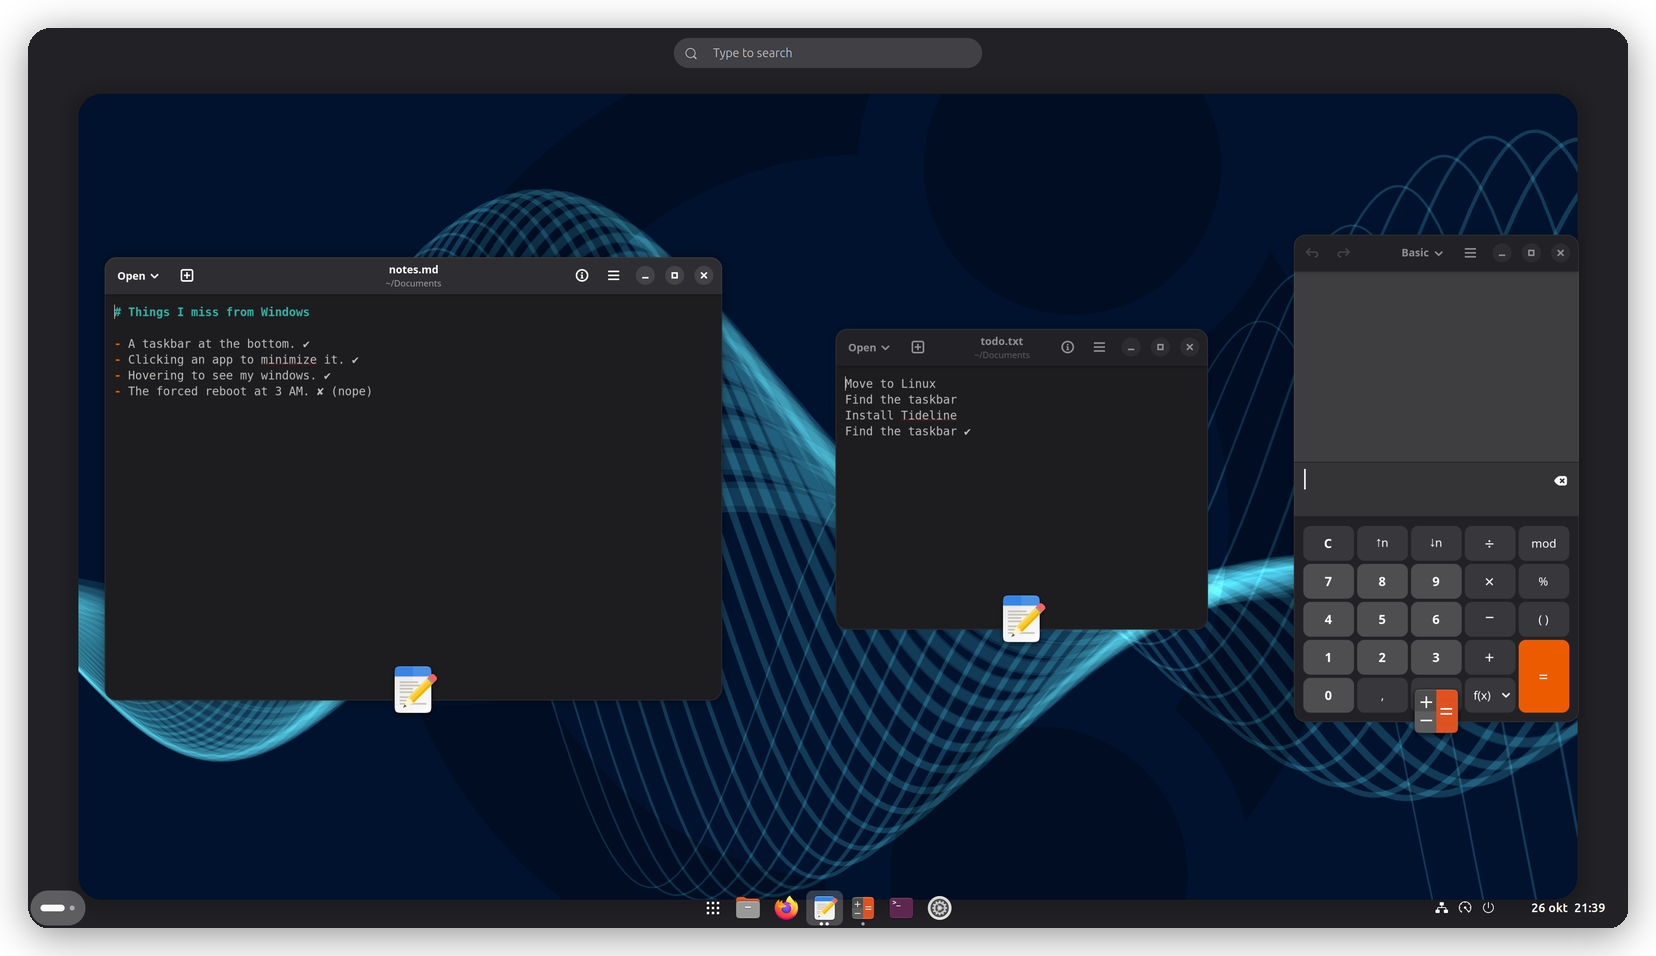
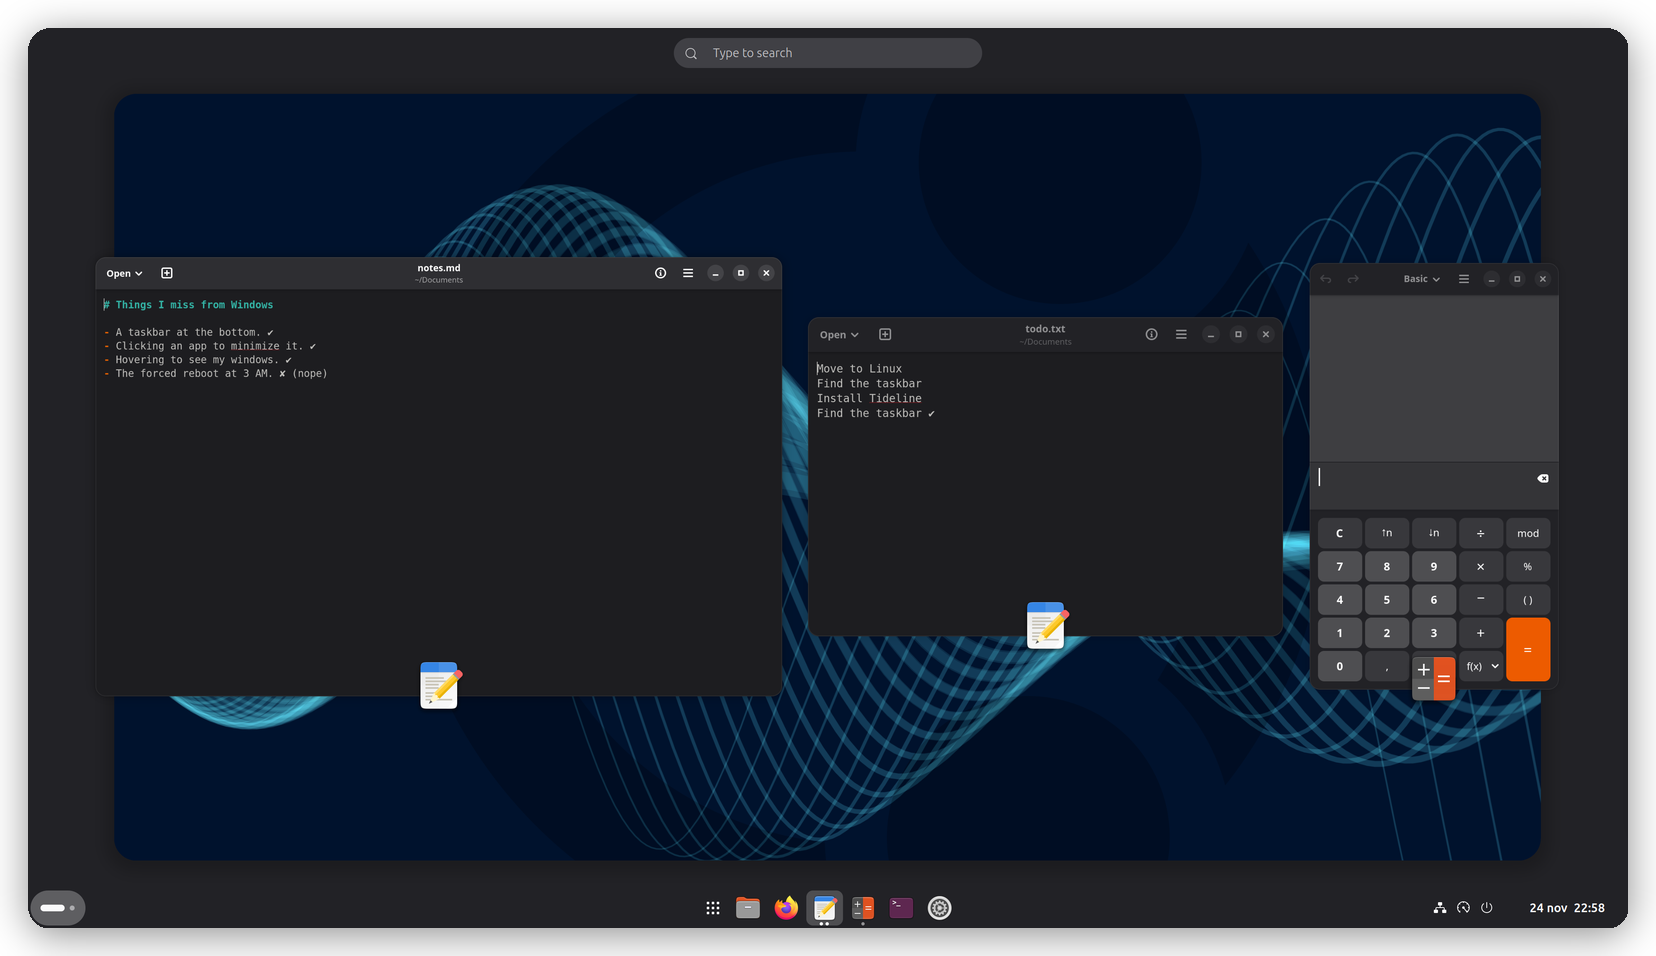
Add a Tideline Settings menu and keep the Overview clear of the bar
Right-clicking empty taskbar space or the app grid button opens a small
menu with Tideline Settings. The panel's window-drag gesture is limited
to the left button while enabled so it no longer swallows the right-click.

The Overview is padded at the bottom by the taskbar height so the
workspace, app grid and search no longer run in under the bar. The
dynamic background also forgets bars the shell destroys on its own.

Changed region(s): [[0.0308, 0.091, 0.9547, 0.9707], [0.9239, 0.546, 0.9547, 0.5764]]

diff --git a/tideline@croby.se/settingsMenu.js b/tideline@croby.se/settingsMenu.js
@@ -1,0 +1,120 @@
+import Clutter from 'gi://Clutter';
+import GLib from 'gi://GLib';
+import St from 'gi://St';
+
+import * as Main from 'resource:///org/gnome/shell/ui/main.js';
+import * as PopupMenu from 'resource:///org/gnome/shell/ui/popupMenu.js';
+import {gettext as _} from 'resource:///org/gnome/shell/extensions/extension.js';
+
+/**
+ * The small "Tideline Settings" menu that opens on a right-click on empty
+ * taskbar space or on the app grid button, like "Taskbar settings" does on
+ * Windows. One menu is open at a time, built fresh each time it opens.
+ */
+class SettingsMenu {
+    constructor() {
+        this._openPreferences = null;
+        this._menu = null;
+        this._manager = null;
+        this._destroyId = 0;
+    }
+
+    /**
+     * @param {Function} openPreferences - opens the preferences window
+     */
+    init(openPreferences) {
+        this._openPreferences = openPreferences;
+    }
+
+    /**
+     * Open the menu above an actor, e.g. the app grid button.
+     *
+     * @param {Clutter.Actor} sourceActor - what the menu points at
+     */
+    openFor(sourceActor) {
+        this._open(sourceActor, 0.5);
+    }
+
+    /**
+     * Open the menu above a point, e.g. where empty space was clicked.
+     *
+     * @param {number} x - stage x
+     * @param {number} y - stage y
+     */
+    openAt(x, y) {
+        Main.layoutManager.setDummyCursorGeometry(x, y, 0, 0);
+        this._open(Main.layoutManager.dummyCursor, 0);
+    }
+
+    /**
+     * Make right-clicks on the actor's own empty space open the menu.
+     * Clicks on children such as app buttons or panel menus are left alone,
+     * since the gesture only sees events that target the actor itself.
+     *
+     * @param {Clutter.Actor} actor - a bar
+     */
+    addTo(actor) {
+        const gesture = new Clutter.ClickGesture({
+            required_button: Clutter.BUTTON_SECONDARY,
+            recognize_on_press: true,
+        });
+        gesture.connect('recognize', () => {
+            const {x, y} = gesture.get_coords_abs();
+            this.openAt(x, y);
+        });
+        actor.add_action_full('tideline-settings-menu',
+            Clutter.EventPhase.TARGET, gesture);
+    }
+
+    removeFrom(actor) {
+        actor.remove_action_by_name('tideline-settings-menu');
+    }
+
+    _open(sourceActor, alignment) {
+        this.close();
+
+        this._menu = new PopupMenu.PopupMenu(sourceActor, alignment, St.Side.BOTTOM);
+        this._menu.addAction(_('Tideline Settings'), () => this._openPreferences?.(),
+            'emblem-system-symbolic');
+        Main.uiGroup.add_child(this._menu.actor);
+        this._menu.actor.hide();
+
+        this._manager = new PopupMenu.PopupMenuManager(sourceActor);
+        this._manager.addMenu(this._menu);
+
+        const menu = this._menu;
+        menu.connect('open-state-changed', (_menu, open) => {
+            if (open || menu !== this._menu)
+                return;
+            // Let the closing animation finish before tearing it down.
+            this._destroyId = GLib.timeout_add(GLib.PRIORITY_DEFAULT, 300, () => {
+                this._destroyId = 0;
+                if (menu === this._menu)
+                    this.close();
+                return GLib.SOURCE_REMOVE;
+            });
+        });
+        this._menu.open(true);
+    }
+
+    close() {
+        if (this._destroyId) {
+            GLib.source_remove(this._destroyId);
+            this._destroyId = 0;
+        }
+        const menu = this._menu;
+        this._menu = null;
+        if (menu) {
+            this._manager.removeMenu(menu);
+            menu.destroy();
+        }
+        this._manager = null;
+    }
+
+    destroy() {
+        this.close();
+        this._openPreferences = null;
+    }
+}
+
+export const settingsMenu = new SettingsMenu();

diff --git a/tideline@croby.se/extension.js b/tideline@croby.se/extension.js
@@ -1,3 +1,4 @@
+import Clutter from 'gi://Clutter';
 import Meta from 'gi://Meta';
 import St from 'gi://St';
 
@@ -8,6 +9,7 @@ import {ExtensionState} from 'resource:///org/gnome/shell/misc/extensionUtils.js
 import {DynamicBackground} from './background.js';
 import {previews} from './previews.js';
 import {SecondaryBar} from './secondaryBar.js';
+import {settingsMenu} from './settingsMenu.js';
 import {Taskbar} from './taskbar.js';
 
 const CONFLICTING_EXTENSIONS = [
@@ -70,6 +72,19 @@ export default class TidelineExtension extends Extension {
             });
 
         this._setupOverviewDash();
+        this._setupOverviewSpace();
+
+        // Right-click on empty taskbar space opens a menu with our settings.
+        settingsMenu.init(() => this.openPreferences());
+        for (const actor of this._settingsMenuTargets())
+            settingsMenu.addTo(actor);
+        // The panel's window-drag gesture reacts to any button and would
+        // swallow the right-click; dragging windows only needs the left one.
+        const windowDrag = panel._clickGesture;
+        if (windowDrag) {
+            this._windowDragButton = windowDrag.required_button;
+            windowDrag.required_button = Clutter.BUTTON_PRIMARY;
+        }
 
         // Zones skip empty boxes, so recheck now that Activities and the
         // clock are where the settings want them.
@@ -96,6 +111,12 @@ export default class TidelineExtension extends Extension {
             this._setMenuSide(indicator, St.Side.TOP);
 
         previews.close();
+        for (const actor of this._settingsMenuTargets())
+            settingsMenu.removeFrom(actor);
+        settingsMenu.destroy();
+        if (this._windowDragButton !== undefined && panel._clickGesture)
+            panel._clickGesture.required_button = this._windowDragButton;
+        delete this._windowDragButton;
         this._destroySecondaryBars();
         this._taskbar?.destroy();
         this._taskbar = null;
@@ -103,6 +124,7 @@ export default class TidelineExtension extends Extension {
         this._restoreClock();
         panel.statusArea.activities?.container.show();
         this._restoreOverviewDash();
+        this._restoreOverviewSpace();
 
         this._background?.destroy();
         this._background = null;
@@ -112,6 +134,13 @@ export default class TidelineExtension extends Extension {
         // Put the panel and its pointer barrier back where the shell wants them.
         layoutManager._updateBoxes();
         layoutManager._updatePanelBarrier();
+    }
+
+    _settingsMenuTargets() {
+        // The boxes are reactive too, so clicks between their children
+        // target them rather than the panel.
+        const panel = Main.panel;
+        return [panel, panel._leftBox, panel._centerBox, panel._rightBox];
     }
 
     _setupSecondaryBars() {
@@ -241,6 +270,23 @@ export default class TidelineExtension extends Extension {
         dash.opacity = 255;
         dash.reactive = true;
         dash.set_clip_to_allocation(false);
+    }
+
+    _setupOverviewSpace() {
+        // The overview lays itself out from the top of the work area down to
+        // the bottom of the screen, so it would run in under the taskbar.
+        // Padding its controls lifts the search, windows and app grid clear.
+        const controls = Main.overview._overview?._controls;
+        if (!controls)
+            return;
+
+        this._overviewControls = controls;
+        controls.set_style(`padding-bottom: ${this._settings.get_int('panel-height')}px;`);
+    }
+
+    _restoreOverviewSpace() {
+        this._overviewControls?.set_style(null);
+        this._overviewControls = null;
     }
 
     _setMenuSide(indicator, side) {

diff --git a/tideline@croby.se/taskbar.js b/tideline@croby.se/taskbar.js
@@ -15,6 +15,7 @@ import {gettext as _} from 'resource:///org/gnome/shell/extensions/extension.js'
 
 import {parseColor} from './background.js';
 import {previews} from './previews.js';
+import {settingsMenu} from './settingsMenu.js';
 
 const LABEL_SHOW_DELAY = 300;
 const LABEL_ANIMATION_TIME = 150;
@@ -400,7 +401,23 @@ class ShowAppsButton extends St.Button {
         this.set_child(this._icon);
         this._label = new HoverLabel(this, _('Show Apps'));
         this.setIconSize(iconSize);
+
+        // Like the Start button on Windows, a right-click offers settings.
+        const rightClick = new Clutter.ClickGesture({
+            required_button: Clutter.BUTTON_SECONDARY,
+            recognize_on_press: true,
+        });
+        rightClick.connect('recognize', () => this.popupMenu());
+        this.add_action(rightClick);
+        this.connect('popup-menu', () => this.popupMenu());
+
         this.connect('destroy', () => this._label.destroy());
+    }
+
+    popupMenu() {
+        this._label.hide();
+        settingsMenu.openFor(this);
+        return Clutter.EVENT_STOP;
     }
 
     setIconSize(size) {

diff --git a/tideline@croby.se/background.js b/tideline@croby.se/background.js
@@ -113,6 +113,8 @@ export class DynamicBackground {
         });
 
         this._targets.set(actor, {getMonitor, zones});
+        // The shell may destroy a bar itself, e.g. while shutting down.
+        actor.connectObject('destroy', () => this._targets.delete(actor), this);
         this.update();
     }
 
@@ -120,6 +122,7 @@ export class DynamicBackground {
         const target = this._targets.get(actor);
         if (target)
             this._clearZones(target.zones);
+        actor.disconnectObject(this);
         this._targets.delete(actor);
     }
 
@@ -314,6 +317,7 @@ export class DynamicBackground {
         Main.overview.disconnectObject(this);
 
         for (const [actor, {zones}] of this._targets) {
+            actor.disconnectObject(this);
             actor.set_style(null);
             this._clearZones(zones);
         }

diff --git a/tideline@croby.se/secondaryBar.js b/tideline@croby.se/secondaryBar.js
@@ -4,6 +4,7 @@ import St from 'gi://St';
 
 import * as Main from 'resource:///org/gnome/shell/ui/main.js';
 
+import {settingsMenu} from './settingsMenu.js';
 import {Taskbar} from './taskbar.js';
 
 /**
@@ -27,6 +28,7 @@ class SecondaryBar extends St.Widget {
         this._taskbar.x_align = Clutter.ActorAlign.CENTER;
         this._taskbar.x_expand = true;
         this.add_child(this._taskbar);
+        settingsMenu.addTo(this);
 
         // Chrome is untracked automatically when the actor is destroyed.
         Main.layoutManager.addChrome(this, {

diff --git a/README.md b/README.md
@@ -81,15 +81,17 @@ spreadsheet.
 ### Out of the way in the Overview
 
 Press the Super key and GNOME's Overview still works the GNOME way. Tideline
-fades to fully transparent so your windows get the spotlight, and the dash that
-used to live there is hidden since the taskbar already does its job.
+fades to fully transparent so your windows get the spotlight, the Overview
+moves up to make room for it, and the dash that used to live there is hidden
+since the taskbar already does its job.
 
 ![The GNOME Overview with Tideline](docs/overview.png)
 
 ## Settings
 
 Everything has a sensible default, so you can install it and forget about it.
-If you do like to tinker:
+If you do like to tinker, right-click an empty spot on the taskbar (or the app
+grid button) and choose **Tideline Settings**:
 
 - **Layout:** taskbar height, icon size, and whether the clock sits on the right
   or in the middle.
